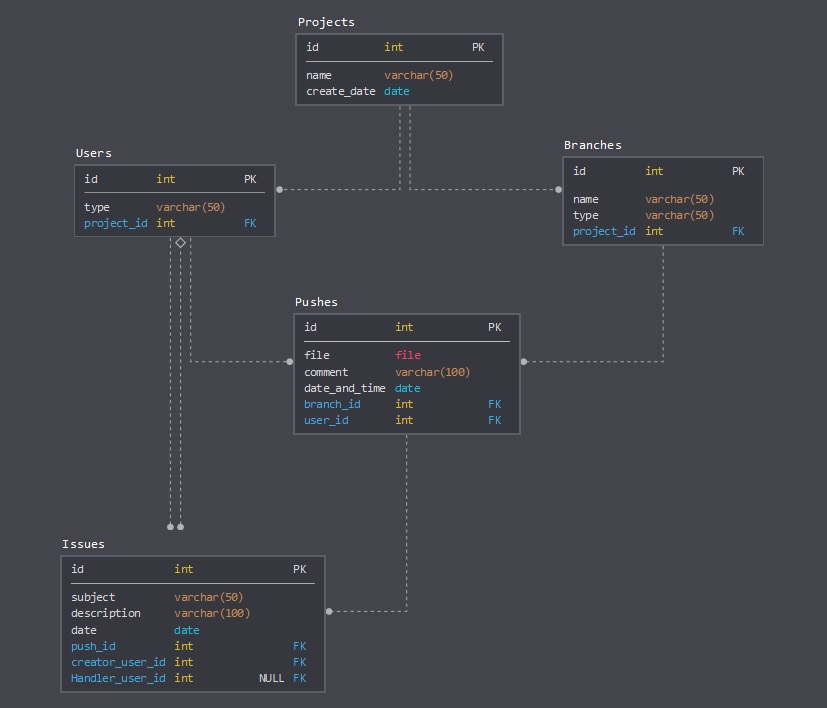
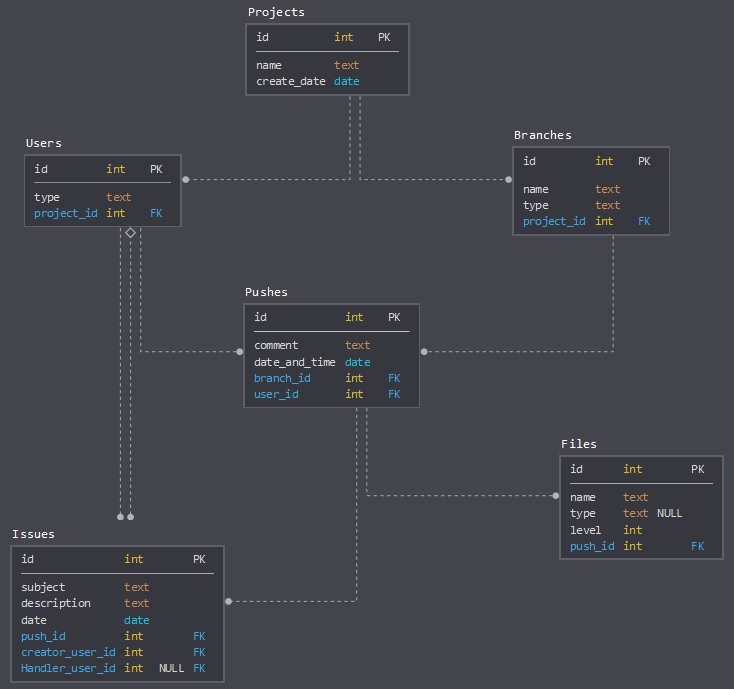
update schema

diff --git a/blog/database/migrations/2020_01_17_214437_create_files_table.php b/blog/database/migrations/2020_01_17_214437_create_files_table.php
@@ -1,0 +1,37 @@
+<?php
+
+use Illuminate\Database\Migrations\Migration;
+use Illuminate\Database\Schema\Blueprint;
+use Illuminate\Support\Facades\Schema;
+
+class CreateFilesTable extends Migration
+{
+    /**
+     * Run the migrations.
+     *
+     * @return void
+     */
+    public function up()
+    {
+        Schema::create('files', function (Blueprint $table) {
+            $table->bigIncrements('id');
+            $table->timestamps();
+            $table->text('name') ;
+            $table->text('type') ;
+            $table->text('parent') ;
+            $table->integer('level') ;
+            $table->BigInteger('push_id');
+            $table->foreign('push_id')->references('id')->on('pushes')->onUpdate('cascade')->onDelete('cascade');
+        });
+    }
+
+    /**
+     * Reverse the migrations.
+     *
+     * @return void
+     */
+    public function down()
+    {
+        Schema::dropIfExists('files');
+    }
+}

diff --git a/blog/database/migrations/2019_12_27_114935_create_pushes_table.php b/blog/database/migrations/2019_12_27_114935_create_pushes_table.php
@@ -16,7 +16,6 @@ class CreatePushesTable extends Migration
         Schema::create('pushes', function (Blueprint $table) {
             $table->bigIncrements('id');
             $table->timestamps();
-            $table->text('file');
             $table->text('comment');
             $table->dateTime('date_and_time');
             $table->BigInteger('branch_id');

diff --git a/blog/app/Http/Controllers/IssuesController.php b/blog/app/Http/Controllers/IssuesController.php
@@ -45,7 +45,7 @@ class IssuesController extends Controller
     }
 
     public function issue_update_form(Issues $issues){
-        $user = UsersCode::get() ;
+        $user = sersCode::get() ;
         $push = Pushes::get() ;
         return view('Issue.issue_update_form' , compact('push' , 'issues' , 'user')) ;
     }

diff --git a/blog/app/Http/Controllers/ProjectsController.php b/blog/app/Http/Controllers/ProjectsController.php
@@ -22,6 +22,8 @@ class ProjectsController extends Controller
         return redirect('/projects/project_list') ;
         }
 
+        //
+
 
     public function project_list(){
         $data = Projects::get() ;

diff --git a/blog/app/Http/Controllers/FilesController.php b/blog/app/Http/Controllers/FilesController.php
@@ -1,0 +1,10 @@
+<?php
+
+namespace App\Http\Controllers;
+
+use Illuminate\Http\Request;
+
+class FilesController extends Controller
+{
+    //
+}

diff --git a/blog/app/Files.php b/blog/app/Files.php
@@ -1,0 +1,10 @@
+<?php
+
+namespace App;
+
+use Illuminate\Database\Eloquent\Model;
+
+class Files extends Model
+{
+    //
+}
